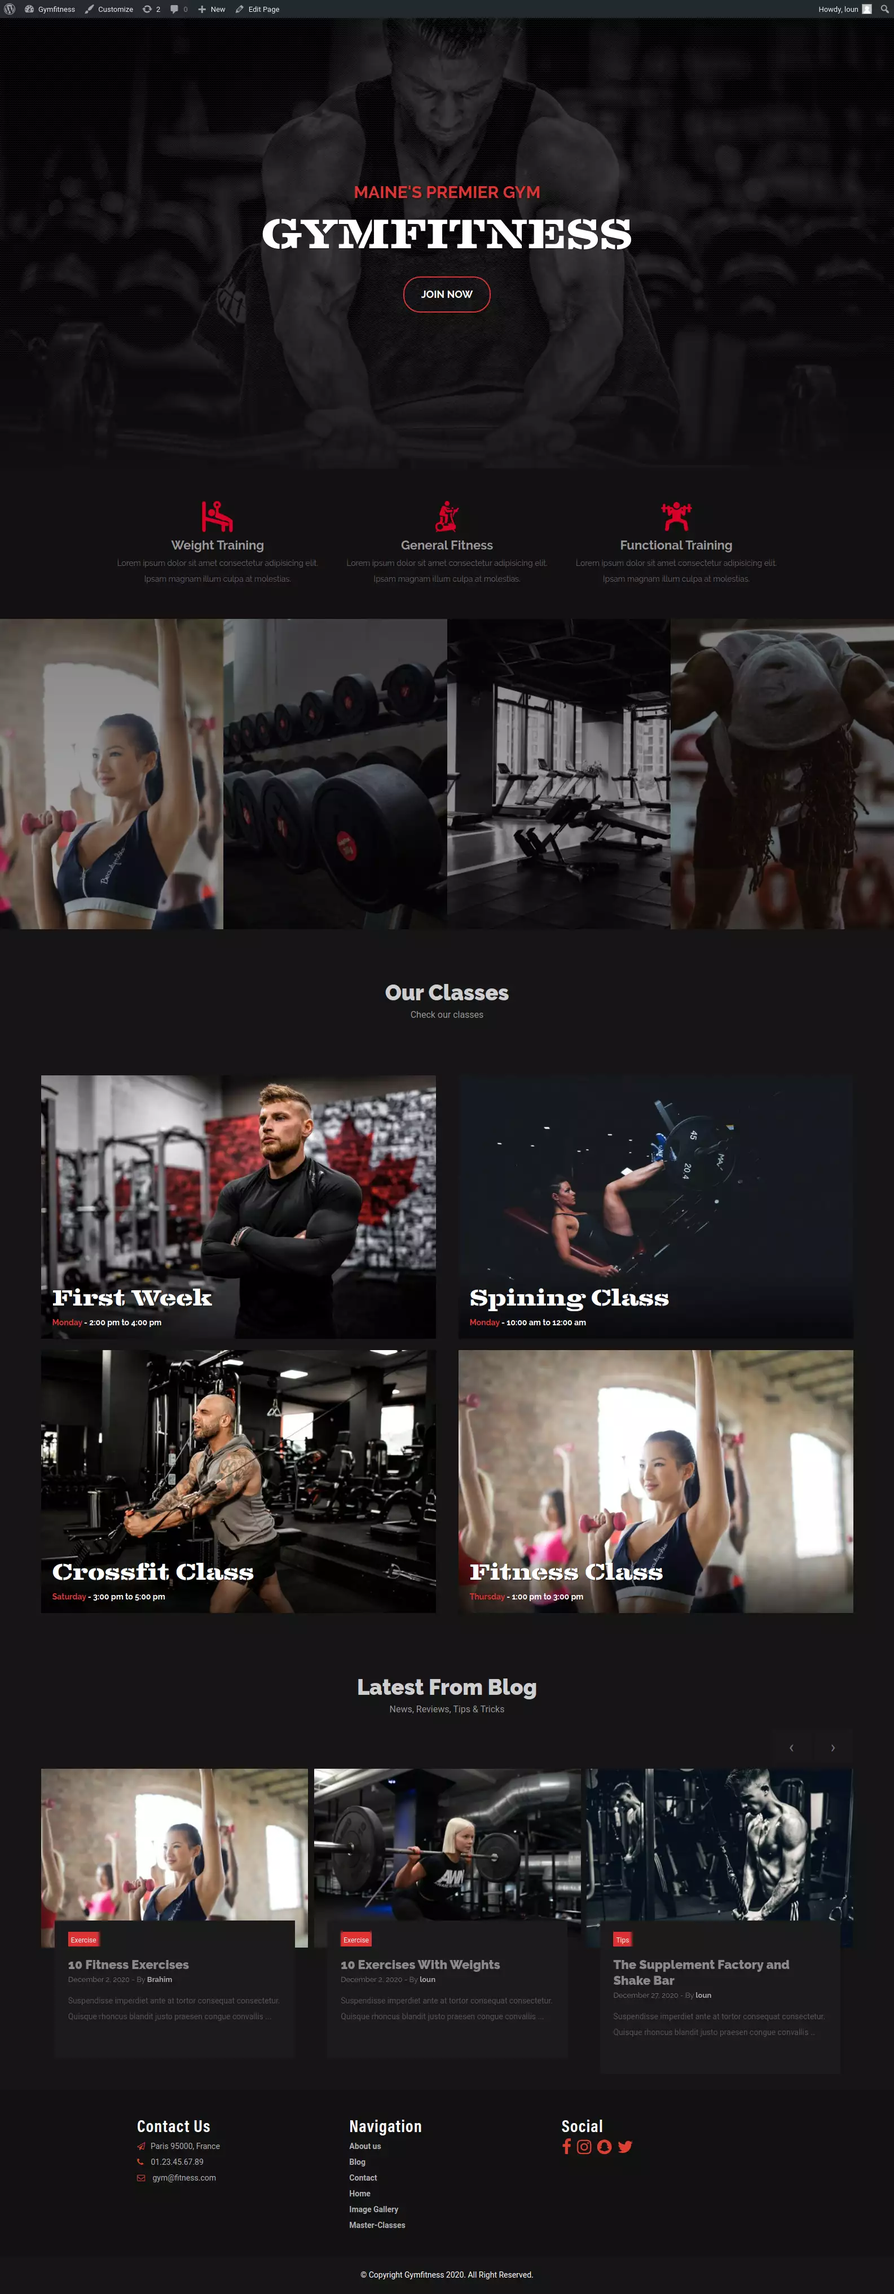
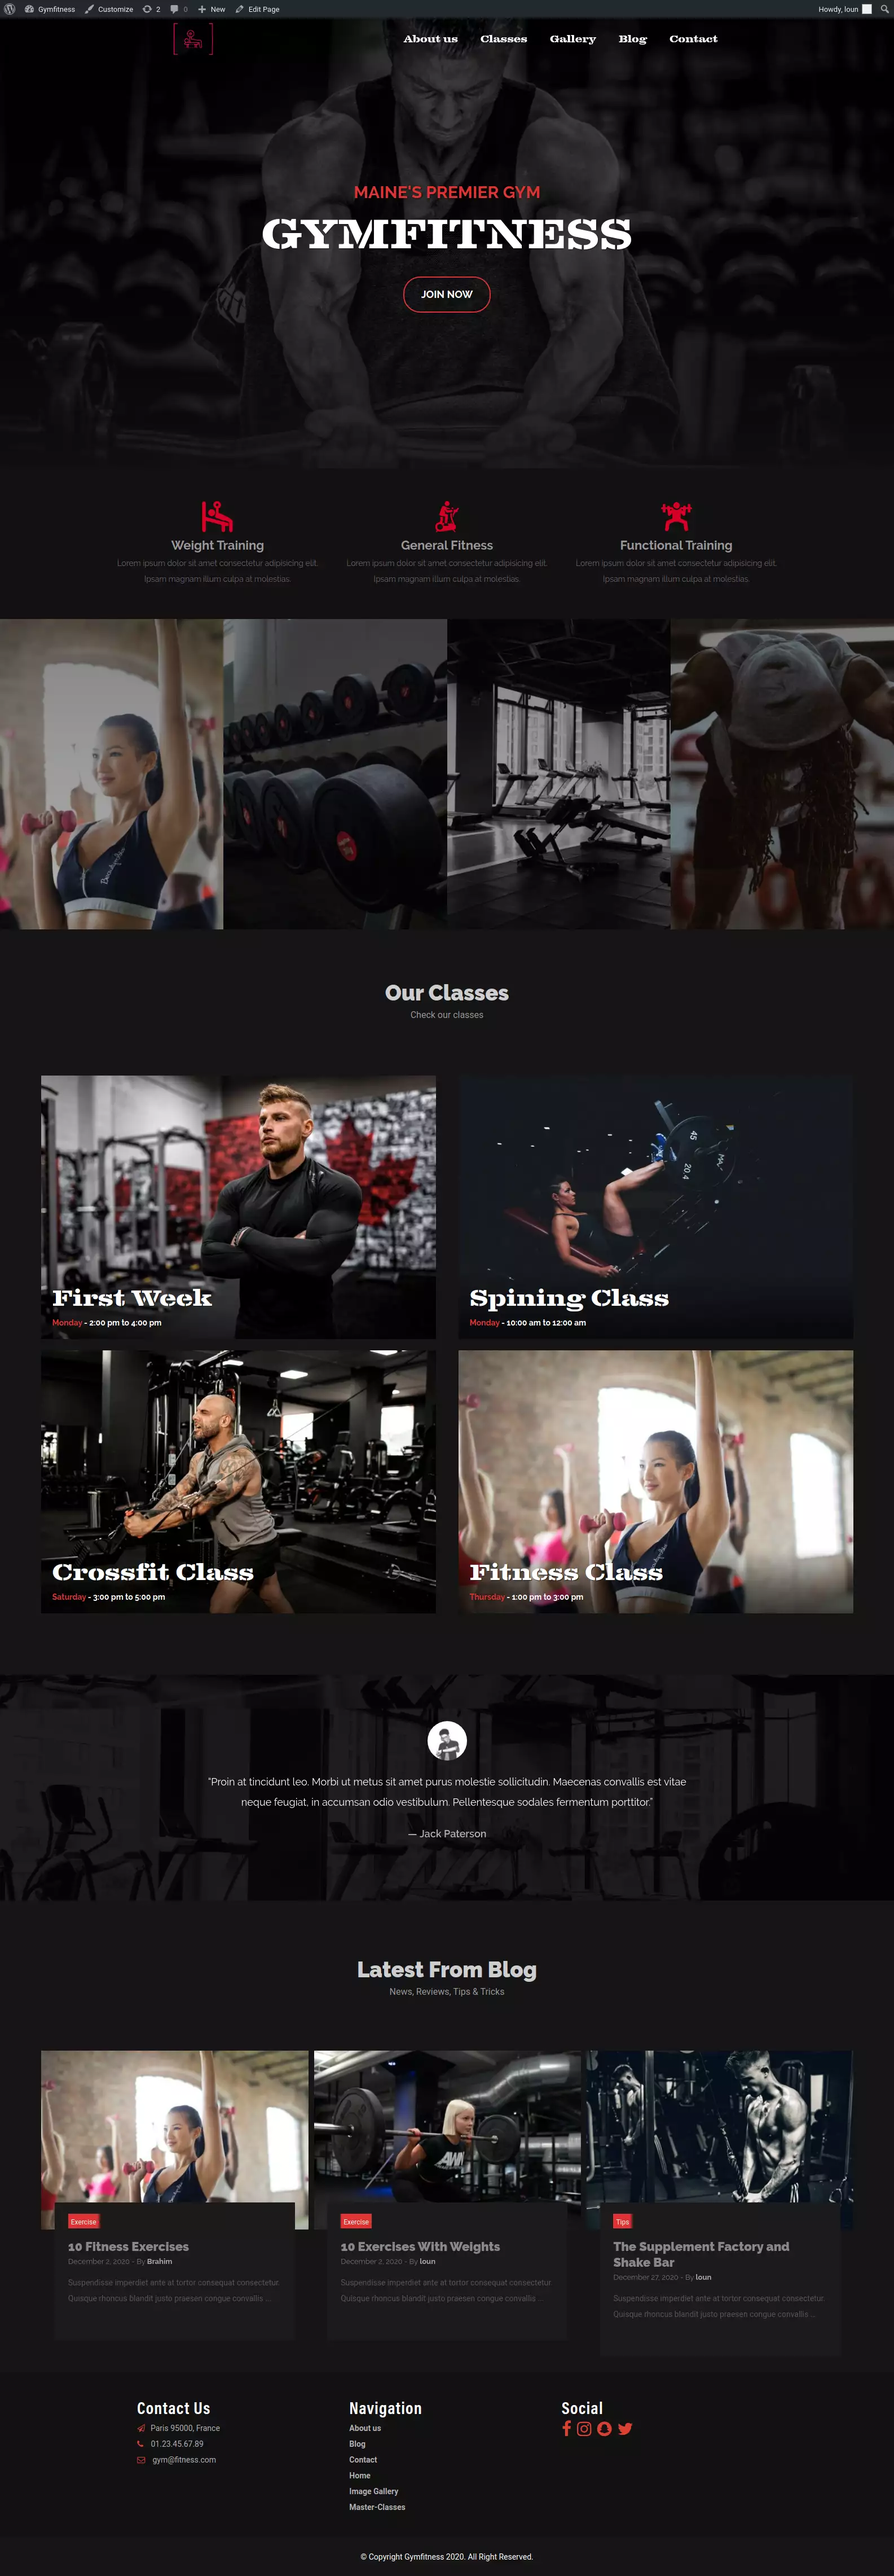
Add Testimonials section and testimonials costum post type

diff --git a/themes/gymfitness/style.css b/themes/gymfitness/style.css
@@ -183,6 +183,13 @@ img{
 }
 .hero-section:before {
     background-image: linear-gradient(to bottom, rgba(0,0,0,0.3), rgba(5,5,5,0.3), rgba(10,10,10,0.3), rgba(15,15,15,0.5), rgba(18,18,18,0.85)),url(../gymfitness/img/hero-texture.png);
+    background-repeat: no-repeat;
+    background-position: center;
+}
+.hero-section{
+    background-position: center;
+    background-size: cover;
+    background-repeat: no-repeat;
 }
 .head-banner::before,
 .hero-section:before {
@@ -835,6 +842,8 @@ div.blog-list-info p.post-date-author > a:hover {
     text-align: center;
     color: white;
     z-index: 1000;
+    opacity: 1;
+    transition: 0.5s all linear;
 }
 .hero-tagline-title{
     font-size: 30px;
@@ -946,6 +955,10 @@ div.blog-list-info p.post-date-author > a:hover {
     height: 550px;
     object-fit: cover;
 }
+/** Our Classes Section **/
+.our-classes{ 
+    padding-bottom: 2rem;
+}
 
 /** Latest Post Section **/
 .latest-blog{
@@ -975,3 +988,58 @@ div.blog-list-info p.post-date-author > a:hover {
 button.owl-next, button.owl-prev{
     padding-bottom: 1rem 3rem !important;
 }
+
+/** Testimonials section **/
+.testimonials-section{
+    margin-top: 5%;
+    width:100%;
+    height: 400px;
+    background-image: url('../gymfitness/img/risen-wang-20jX9b35r_M-unsplash.jpg');
+    background-position: center;
+    background-size: cover;
+    background-repeat: no-repeat;
+    background-attachment: fixed;
+    position: relative;
+    font-family: var(--mainFont);
+}
+.testimonials-container{
+    background: linear-gradient( rgba(5,5,5,0.9) , rgba(5,5,5,0.9));
+    position: absolute;
+    z-index: 1;
+    height: 100%;
+    width: 100%;
+    display: flex;
+    justify-content: center;
+    align-items: center;
+    text-align: center;
+}
+.testimonials-inner{
+    position: relative;
+    z-index: 100;
+    padding: 5%;
+}
+.testimonials-image-div{
+    width: 7rem;
+    height: 7rem;
+    margin: 2rem auto;
+}
+.testimonials-image-div img {
+    border-radius: 100%;
+}
+.testimonials-content-div{
+    max-width: 900px;
+    font-size: 1.8rem;
+    color: white;
+    margin: 0 auto;
+}
+.testimonials-name-div{
+    font-weight: 600;
+    margin-top: 2rem;
+    color: #b1b1b1;
+    font-size: 1.8rem;
+}
+.testimonials-name-div p:before{
+    content: '\2014 \00A0';
+}
+
+

diff --git a/themes/gymfitness/front-page.php b/themes/gymfitness/front-page.php
@@ -134,19 +134,28 @@
 <section class="testimonials-section">
     <div class="testimonials-container">
         <div class="testimonials-inner wrap">
-            <div class="estimonials-inner-content">
-                <?php 
-                $args = array(
-                    "post_type" => "gym_testimonials",
-                    "post_not_in" => array( $post->ID )
-                );
-                $testimonials = new WP_Query($args);
-                while ($testimonials->have_posts()): $testimonials->the_post(  );
-                 the_title();
-                 the_post_thumbnail(  );
-                 the_content(  );           
-            
-                endwhile; wp_reset_postdata( )?>
+            <div class="owl-carousel testimonials">
+
+        <?php 
+            $args = array(
+                "post_type" => "gym_testimonials",
+                "post_not_in" => array( $post->ID )
+            );
+            $testimonials = new WP_Query($args);
+
+            while ($testimonials->have_posts()): $testimonials->the_post(  ); ?>
+            <div class="testimonials-inner-content">
+                    <div class="testimonials-image-div">
+                    <?php the_post_thumbnail("thumbnail") ?>
+                    </div>
+                    <div class="testimonials-content-div">
+                        <p><?php  the_content()?></p>
+                    </div>
+                    <div class="testimonials-name-div">
+                        <p><?php  the_title()?></p>
+                    </div>
+            </div>
+            <?php endwhile; wp_reset_postdata( )?>
             </div>
         </div>
     </div>
@@ -159,15 +168,12 @@
             <p class="latest-blog-subtitle">News, Reviews, Tips & Tricks</p>
         </div>
         <div class="wrap">
-                <div class="owl-carousel">
+            <div class="owl-carousel">
                <?php get_template_part("template_parts/home" , "articles" )?>
             </div>
         </div>
     </div>
 </section>
-
-
-
 
 <?php 
     // get the footer from footer.php
